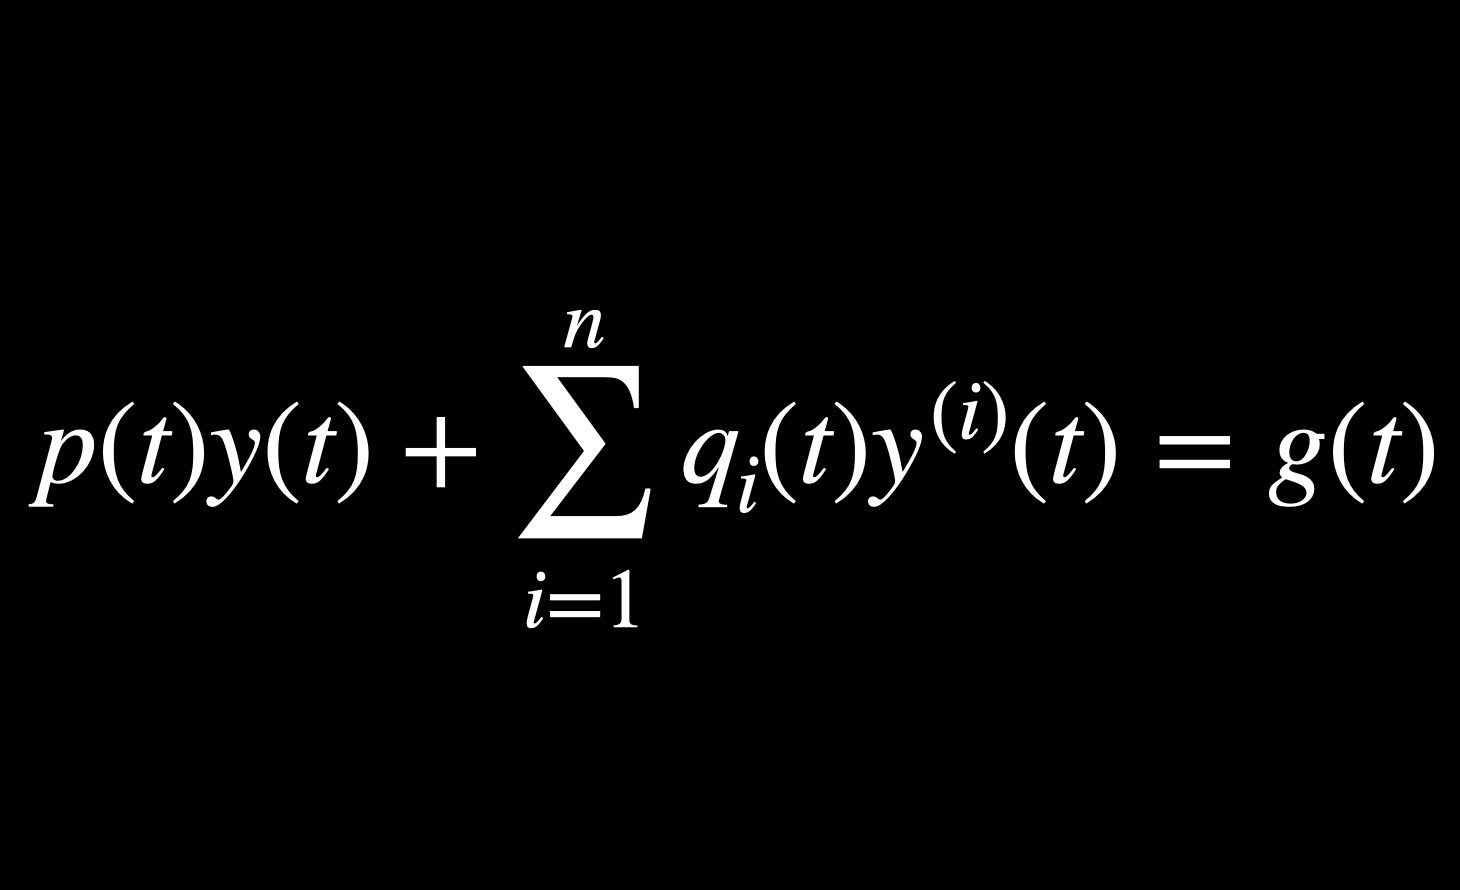
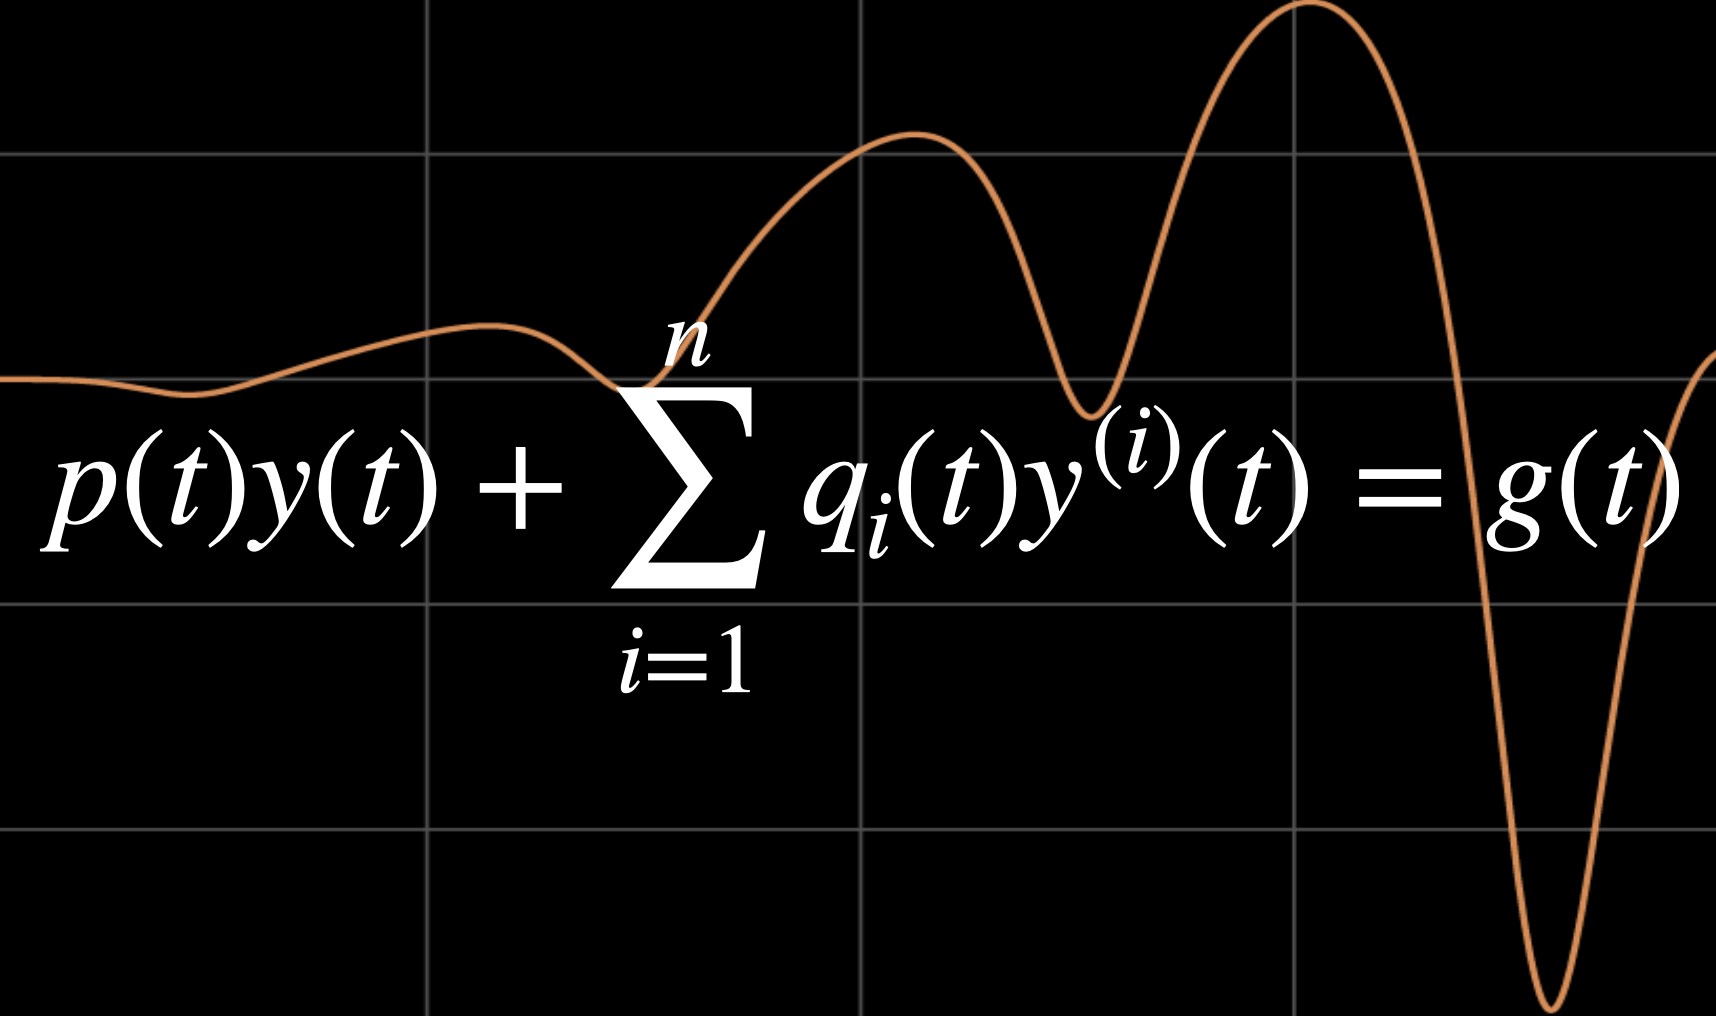
Project cards

diff --git a/projects/projects.html b/projects/projects.html
@@ -333,7 +333,7 @@
 
              <div class="width2">
 
-                <h1 style = "color: #ffffff;"> Projects</h1>
+                <!-- <h1 style = "color: #ffffff;"> Projects</h1> -->
                 
                 <br><br>
                 
